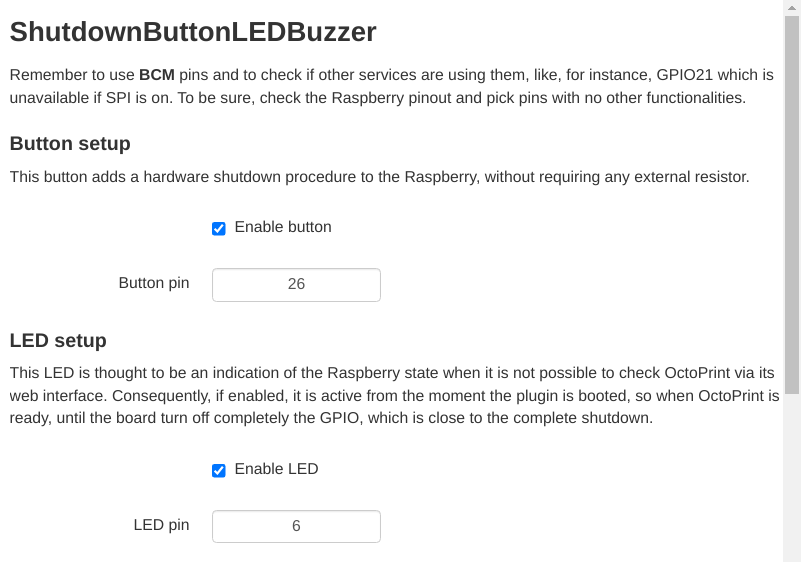
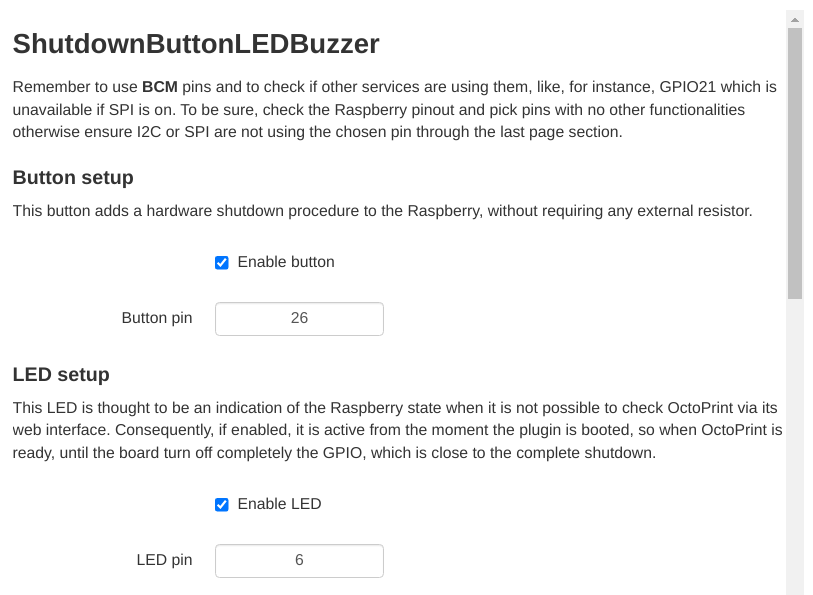
Implemented the possibility to check I2C and SPI state from setting

diff --git a/octoprint_shutdownbuttonledbuzzer/static/js/ShutdownButtonLEDBuzzer.js b/octoprint_shutdownbuttonledbuzzer/static/js/ShutdownButtonLEDBuzzer.js
@@ -2,8 +2,9 @@
  * View model for OctoPrint-ShutdownButtonLEDBuzzer
  *
  * Author: Daniele Borgo
- * License: AGPLv3
+ * License: GPLv3
  */
+
 $(function() {
     function ShutdownbuttonledbuzzerViewModel(parameters) {
         let self = this;
@@ -14,8 +15,22 @@ $(function() {
 
         // TODO: Implement your plugin's view model here.
 
-        self.onBeforeBinding = function() {
+        self.i2c_status = ko.observable("loading...")
+        self.spi_status = ko.observable("loading...")
 
+        self.refresh = function (){
+            $.get(
+                API_BASEURL + "plugin/shutdownbuttonledbuzzer",
+                function (data) {
+                    let parsed = JSON.parse(data)
+                    self.i2c_status(parsed.i2c_status)
+                    self.spi_status(parsed.spi_status)
+                }
+            )
+        }
+
+        self.onStartupComplete = function () {
+            self.refresh()
         }
     }
 
@@ -28,6 +43,6 @@ $(function() {
         // ViewModels your plugin depends on, e.g. loginStateViewModel, settingsViewModel, ...
         dependencies: [ /* "loginStateViewModel", "settingsViewModel" */ "settingsViewModel"],
         // Elements to bind to, e.g. #settings_plugin_ShutdownButtonLEDBuzzer, #tab_plugin_ShutdownButtonLEDBuzzer, ...
-        elements: [ /* "#settings_plugin_shutdownbuttonledbuzzer" */  ]
+        elements: [ "#settings_plugin_shutdownbuttonledbuzzer"  ]
     });
 });

diff --git a/octoprint_shutdownbuttonledbuzzer/static/css/ShutdownButtonLEDBuzzer.css b/octoprint_shutdownbuttonledbuzzer/static/css/ShutdownButtonLEDBuzzer.css
@@ -2,3 +2,22 @@
 .center-input{
     text-align: center;
 }
+
+.padding-top{
+    padding-top: 5px;
+}
+
+.label-enabled{
+    color: #F00;
+    font-weight: bold;
+}
+
+.label-disabled{
+    color: #0AF;
+    font-weight: bold;
+}
+
+.label-undefined{
+    color: #0F0;
+    font-weight: bold;
+}

diff --git a/octoprint_shutdownbuttonledbuzzer/__init__.py b/octoprint_shutdownbuttonledbuzzer/__init__.py
@@ -15,14 +15,15 @@ GNU General Public License for more details.
 
 You should have received a copy of the GNU General Public License
 along with this program.  If not, see <https://www.gnu.org/licenses/>.
-
 """
 
 from __future__ import absolute_import
+import json
 import octoprint.plugin
+import os
+import subprocess
 from time import sleep
 from gpiozero import Button, Buzzer, LED
-import os
 
 __plugin_pythoncompat__ = ">=3,<4"  # only python 3
 
@@ -32,7 +33,13 @@ DEFAULT_BUZZER_PIN = 13
 DEFAULT_BEEP_MS = 50
 DEFAULT_BEEPS_ON_STARTUP = 2
 DEFAULT_BEEPS_ON_SHUTDOWN = 3
+DEFAULT_BEEPS_ON_PRESSED = 1
 DEFAULT_EN = True
+OP_SHUTDOWN_COMMAND = "sudo service octoprint stop"
+PI_SHUTDOWN_COMMAND = "sudo shutdown -h now"
+I2C_STATUS_COMMAND = "raspi-config nonint get_i2c"
+SPI_STATUS_COMMAND = "raspi-config nonint get_spi"
+SERVICE_ENABLE_OUT = "0"
 
 
 class ShutdownButtonLEDBuzzerPlugin(
@@ -40,10 +47,9 @@ class ShutdownButtonLEDBuzzerPlugin(
     octoprint.plugin.AssetPlugin,
     octoprint.plugin.TemplatePlugin,
     octoprint.plugin.StartupPlugin,
-    octoprint.plugin.ShutdownPlugin
+    octoprint.plugin.ShutdownPlugin,
+    octoprint.plugin.SimpleApiPlugin
 ):
-    __OP_SHUTDOWN_COMMAND = "sudo service octoprint stop"
-    __PI_SHUTDOWN_COMMAND = "sudo shutdown -h now"
 
     def __init__(self):
         super().__init__()
@@ -53,6 +59,7 @@ class ShutdownButtonLEDBuzzerPlugin(
         self.__beep_ms = None
         self.__beeps_on_startup = None
         self.__beeps_on_shutdown = None
+        self.__beeps_on_pressed = None
         self.__is_button_en = None,
         self.__is_led_en = None,
         self.__is_buzzer_en = None
@@ -67,12 +74,14 @@ class ShutdownButtonLEDBuzzerPlugin(
         self._logger.info('ShutdownButtonLEDBuzzerPlugin ready')
 
     def __load_settings(self):
+        # Avoid errors in case of memory saved data corruption
         self.__button_pin = self.__pick_not_none_int("button_pin", DEFAULT_BUTTON_PIN)
         self.__led_pin = self.__pick_not_none_int("led_pin", DEFAULT_LED_PIN)
         self.__buzzer_pin = self.__pick_not_none_int("buzzer_pin", DEFAULT_BUZZER_PIN)
         self.__beep_ms = self.__pick_not_none_int("beep_ms", DEFAULT_BEEP_MS)
         self.__beeps_on_startup = self.__pick_not_none_int("beeps_on_startup", DEFAULT_BEEPS_ON_STARTUP)
         self.__beeps_on_shutdown = self.__pick_not_none_int("beeps_on_shutdown", DEFAULT_BEEPS_ON_SHUTDOWN)
+        self.__beeps_on_pressed = self.__pick_not_none_bool("beeps_on_pressed", DEFAULT_BEEPS_ON_PRESSED)
         self.__is_button_en = self.__pick_not_none_bool("is_button_en", DEFAULT_EN)
         self.__is_led_en = self.__pick_not_none_bool("is_led_en", DEFAULT_EN)
         self.__is_buzzer_en = self.__pick_not_none_bool("is_buzzer_en", DEFAULT_EN)
@@ -87,7 +96,7 @@ class ShutdownButtonLEDBuzzerPlugin(
 
     def __setup(self):
         #  Set the button with a pull-up resistor, so it's measurable through a tester
-        self.__close(self.__button)
+        self.__close_component(self.__button)
         if self.__is_button_en:
             self.__button = Button(self.__button_pin, pull_up=True, bounce_time=1)
             self.__button.when_pressed = lambda shutdown: self.__shutdown()
@@ -95,7 +104,7 @@ class ShutdownButtonLEDBuzzerPlugin(
             self.__button = None
 
         #  Set the status LED
-        self.__close(self.__led)
+        self.__close_component(self.__led)
         if self.__is_led_en:
             self.__led = LED(self.__led_pin)
             self.__led.on()
@@ -103,7 +112,7 @@ class ShutdownButtonLEDBuzzerPlugin(
             self.__led = None
 
         #  Set the buzzer
-        self.__close(self.__buzzer)
+        self.__close_component(self.__buzzer)
         if self.__is_buzzer_en:
             self.__buzzer = Buzzer(self.__buzzer_pin)
             self.__emit_beep(self.__beeps_on_startup)
@@ -113,9 +122,9 @@ class ShutdownButtonLEDBuzzerPlugin(
     def __shutdown(self):
         self._logger.info("Shutdown command received")
         sleep(1)
-        self.__emit_beep(self.__beeps_on_shutdown)
-        os.system(ShutdownButtonLEDBuzzerPlugin.__OP_SHUTDOWN_COMMAND)
-        os.system(ShutdownButtonLEDBuzzerPlugin.__PI_SHUTDOWN_COMMAND)
+        self.__emit_beep(self.__beeps_on_pressed)
+        os.system(OP_SHUTDOWN_COMMAND)
+        os.system(PI_SHUTDOWN_COMMAND)
 
     def __emit_beep(self, n: int):
         for i in range(n):
@@ -125,14 +134,15 @@ class ShutdownButtonLEDBuzzerPlugin(
             sleep(self.__beep_ms / 1000.0)
 
     @staticmethod
-    def __close(component):
+    def __close_component(component):
         if component is not None:
             component.close()
 
     def on_shutdown(self):
-        self.__close(self.__button)
-        self.__close(self.__buzzer)
-        # LED is not turned off since it has to indicate the Raspberry shutdown
+        self.__close_component(self.__button)
+        self.__emit_beep(self.__beeps_on_shutdown)
+        self.__close_component(self.__buzzer)
+        # LED is not turned off since it has to indicate the Raspberry GPIO shutdown
         self._logger.info("Plugin closed")
 
     def get_settings_defaults(self):
@@ -143,6 +153,7 @@ class ShutdownButtonLEDBuzzerPlugin(
             beep_ms=DEFAULT_BEEP_MS,
             beeps_on_startup=DEFAULT_BEEPS_ON_STARTUP,
             beeps_on_shutdown=DEFAULT_BEEPS_ON_SHUTDOWN,
+            beeps_on_pressed=DEFAULT_BEEPS_ON_PRESSED,
             is_button_en=DEFAULT_EN,
             is_led_en=DEFAULT_EN,
             is_buzzer_en=DEFAULT_EN
@@ -153,9 +164,32 @@ class ShutdownButtonLEDBuzzerPlugin(
         self.__load_settings()
         self.__setup()
 
+    def on_api_get(self, request):
+        self._logger.info("Refresh request received")
+        return json.dumps({
+            'i2c_status': ShutdownButtonLEDBuzzerPlugin.__get_i2c_status(),
+            'spi_status': ShutdownButtonLEDBuzzerPlugin.__get_spi_status()
+        })
+
+    @staticmethod
+    def __get_i2c_status():
+        return ShutdownButtonLEDBuzzerPlugin.__get_service_status(I2C_STATUS_COMMAND)
+
+    @staticmethod
+    def __get_spi_status():
+        return ShutdownButtonLEDBuzzerPlugin.__get_service_status(SPI_STATUS_COMMAND)
+
+    @staticmethod
+    def __get_service_status(command: str):
+        try:
+            out = subprocess.run(command.split(), capture_output=True).stdout.decode("utf-8").strip()
+            return "enabled" if (out == SERVICE_ENABLE_OUT) else "disabled"
+        except FileNotFoundError:
+            return "undefined"
+
     def get_template_configs(self):
         return [
-            dict(type="settings", custom_bindings=False)
+            #  dict(type="settings", custom_bindings=False)
         ]
 
     def get_assets(self):

diff --git a/README.md b/README.md
@@ -20,6 +20,7 @@ accessible in the apposite OctoPrint section in setting:
 
 ![settings1](docs/settings1.png)
 ![settings2](docs/settings2.png)
+![settings3](docs/settings3.png)
 
 The offered three features can be disabled independently.
 
